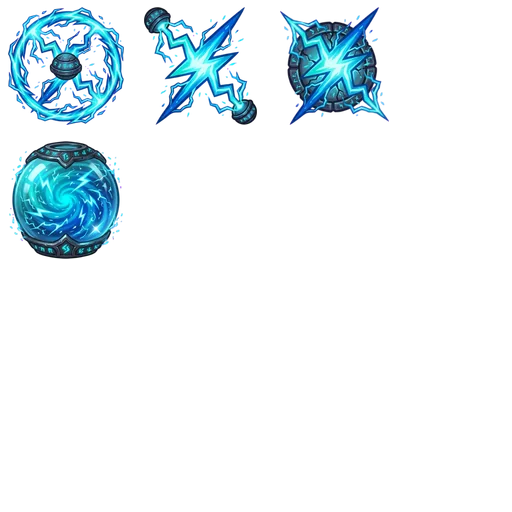
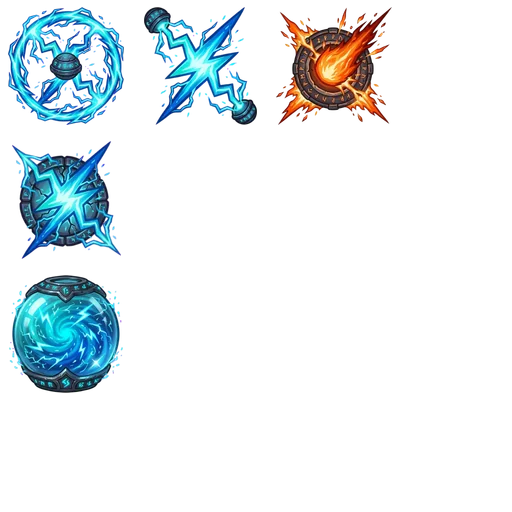
T-026 rodada 10: icon_fire_splash (BRF-028)
Claude-Session: https://claude.ai/code/session_01EN3RX7GrhZzLgyZNfCYpmL

Changed region(s): [[0.0, 0.25, 0.25, 0.7812], [0.5312, 0.0, 0.7812, 0.25]]

diff --git a/art-source/preview.html b/art-source/preview.html
@@ -11,7 +11,7 @@ body.hit .hb::after{content:"";position:absolute;inset:4%;border:1px dashed #00e
 </style></head><body>
 <h1>RuneSling — assets</h1>
 <label><input type="checkbox" onchange="document.body.classList.toggle('hit',this.checked)"> mostrar círculo 92% (hitbox) e centro</label>
-<p>Faltando (15): icon_fire_splash, icon_ignite, icon_supernova, icon_molten_core, icon_ghost_ball, icon_ricochet_crit, icon_wall_clone, icon_arcane_sight, icon_extra_orb, icon_power_surge, icon_bastion_heal, icon_gold_greed, floor_crypt, wall_trim_crypt, app_icon</p>
+<p>Faltando (14): icon_ignite, icon_supernova, icon_molten_core, icon_ghost_ball, icon_ricochet_crit, icon_wall_clone, icon_arcane_sight, icon_extra_orb, icon_power_surge, icon_bastion_heal, icon_gold_greed, floor_crypt, wall_trim_crypt, app_icon</p>
 <main>
 <figure data-key="boss_obsidian"><div class="spr hb" style="width:384px;height:384px;background:url('../public/assets/atlases/enemies.webp?v=f1924fb8') -2px -2px"></div><figcaption>boss_obsidian <small>enemies 384×384</small></figcaption></figure>
 <figure data-key="enemy_bomb"><div class="spr hb" style="width:256px;height:256px;background:url('../public/assets/atlases/enemies.webp?v=f1924fb8') -392px -2px"></div><figcaption>enemy_bomb <small>enemies 256×256</small></figcaption></figure>
@@ -25,16 +25,18 @@ body.hit .hb::after{content:"";position:absolute;inset:4%;border:1px dashed #00e
 <figure data-key="obstacle_bumper_rune"><div class="spr hb" style="width:192px;height:192px;background:url('../public/assets/atlases/enemies.webp?v=f1924fb8') -264px -788px"></div><figcaption>obstacle_bumper_rune <small>enemies 192×192</small></figcaption></figure>
 <figure data-key="obstacle_pillar_obsidian"><div class="spr hb" style="width:192px;height:192px;background:url('../public/assets/atlases/enemies.webp?v=f1924fb8') -916px -2px"></div><figcaption>obstacle_pillar_obsidian <small>enemies 192×192</small></figcaption></figure>
 <figure data-key="obstacle_ring_multiplier"><div class="spr hb" style="width:192px;height:192px;background:url('../public/assets/atlases/enemies.webp?v=f1924fb8') -916px -200px"></div><figcaption>obstacle_ring_multiplier <small>enemies 192×192</small></figcaption></figure>
-<figure data-key="icon_bumper_shock"><div class="spr hb" style="width:128px;height:128px;background:url('../public/assets/atlases/icons.webp?v=5b137d8c') -2px -2px"></div><figcaption>icon_bumper_shock <small>icons 128×128</small></figcaption></figure>
-<figure data-key="icon_chain_lightning"><div class="spr hb" style="width:128px;height:128px;background:url('../public/assets/atlases/icons.webp?v=5b137d8c') -136px -2px"></div><figcaption>icon_chain_lightning <small>icons 128×128</small></figcaption></figure>
-<figure data-key="icon_static_crit"><div class="spr hb" style="width:128px;height:128px;background:url('../public/assets/atlases/icons.webp?v=5b137d8c') -270px -2px"></div><figcaption>icon_static_crit <small>icons 128×128</small></figcaption></figure>
-<figure data-key="icon_storm_orb"><div class="spr hb" style="width:128px;height:128px;background:url('../public/assets/atlases/icons.webp?v=5b137d8c') -2px -136px"></div><figcaption>icon_storm_orb <small>icons 128×128</small></figcaption></figure>
+<figure data-key="icon_bumper_shock"><div class="spr hb" style="width:128px;height:128px;background:url('../public/assets/atlases/icons.webp?v=c0280024') -2px -2px"></div><figcaption>icon_bumper_shock <small>icons 128×128</small></figcaption></figure>
+<figure data-key="icon_chain_lightning"><div class="spr hb" style="width:128px;height:128px;background:url('../public/assets/atlases/icons.webp?v=c0280024') -136px -2px"></div><figcaption>icon_chain_lightning <small>icons 128×128</small></figcaption></figure>
+<figure data-key="icon_fire_splash"><div class="spr hb" style="width:128px;height:128px;background:url('../public/assets/atlases/icons.webp?v=c0280024') -270px -2px"></div><figcaption>icon_fire_splash <small>icons 128×128</small></figcaption></figure>
+<figure data-key="icon_static_crit"><div class="spr hb" style="width:128px;height:128px;background:url('../public/assets/atlases/icons.webp?v=c0280024') -2px -136px"></div><figcaption>icon_static_crit <small>icons 128×128</small></figcaption></figure>
+<figure data-key="icon_storm_orb"><div class="spr hb" style="width:128px;height:128px;background:url('../public/assets/atlases/icons.webp?v=c0280024') -2px -270px"></div><figcaption>icon_storm_orb <small>icons 128×128</small></figcaption></figure>
 <figure data-key="icon_chain_lightning"><img src="../public/assets/icons/icon_chain_lightning.webp?v=f87711a0" alt="icon_chain_lightning"><figcaption>icon_chain_lightning <small>icons/icon_chain_lightning.webp</small></figcaption></figure>
 <figure data-key="icon_bumper_shock"><img src="../public/assets/icons/icon_bumper_shock.webp?v=1d95e1a0" alt="icon_bumper_shock"><figcaption>icon_bumper_shock <small>icons/icon_bumper_shock.webp</small></figcaption></figure>
 <figure data-key="icon_static_crit"><img src="../public/assets/icons/icon_static_crit.webp?v=c7352891" alt="icon_static_crit"><figcaption>icon_static_crit <small>icons/icon_static_crit.webp</small></figcaption></figure>
 <figure data-key="icon_storm_orb"><img src="../public/assets/icons/icon_storm_orb.webp?v=662bd31e" alt="icon_storm_orb"><figcaption>icon_storm_orb <small>icons/icon_storm_orb.webp</small></figcaption></figure>
+<figure data-key="icon_fire_splash"><img src="../public/assets/icons/icon_fire_splash.webp?v=f3c56bfe" alt="icon_fire_splash"><figcaption>icon_fire_splash <small>icons/icon_fire_splash.webp</small></figcaption></figure>
 </main>
 <h2>Atlases</h2>
 <main><figure><img class="sheet" src="../public/assets/atlases/enemies.webp?v=f1924fb8" alt="atlas enemies"><figcaption>atlas enemies 2048×1024</figcaption></figure>
-<figure><img class="sheet" src="../public/assets/atlases/icons.webp?v=5b137d8c" alt="atlas icons"><figcaption>atlas icons 512×512</figcaption></figure></main>
+<figure><img class="sheet" src="../public/assets/atlases/icons.webp?v=c0280024" alt="atlas icons"><figcaption>atlas icons 512×512</figcaption></figure></main>
 </body></html>

diff --git a/docs/arte-prompts.md b/docs/arte-prompts.md
@@ -233,7 +233,7 @@ Generate one square 1:1 image. cyan storm orb with tiny lightning bolts swirling
 - Arquivo a devolver: `art-source/raw/icons/icon_fire_splash.png`
 - Anexar no Gemini: `art-source/anchors/icon_anchor.png`
 - Fundo: white · tamanho final 128 px
-- Situação: pendente
+- Situação: **entregue**
 
 ```text
 Generate one square 1:1 image. orange fireball impact splashing flames outward in a burst (#FF9F43 to #992D0C). RPG skill icon, stylized hand-painted dark fantasy 2D game icon, one single central symbol, high contrast, crisp readable silhouette at 34 pixels, dark iron runic details, no frame, no border, no outer glow, no light bleeding outside the symbol, centered, no text, no letters, no numbers. Background: one solid flat pure white color (#FFFFFF) filling the whole canvas, no gradient, no shadow, no floor, no vignette, no texture. Use the attached image only as a style reference: match its rendering, brush texture, rim construction, lighting direction, contrast and level of detail exactly, but draw the new subject described above. Do not copy its subject.
